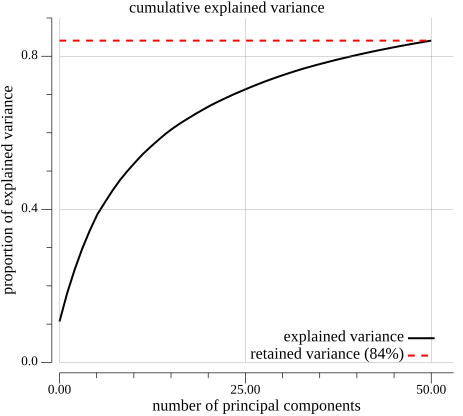
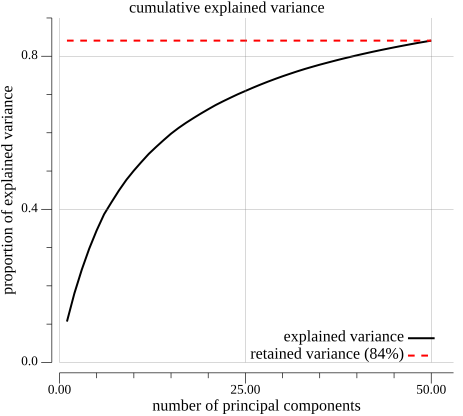
refactor: update pca orientation to samples x features

Changed region(s): [[0.121, 0.1875, 0.6048, 0.7812], [0.121, 0.0938, 0.9374, 0.1562], [0.6048, 0.1562, 0.6955, 0.1875]]

diff --git a/ngo/pca.go b/ngo/pca.go
@@ -32,37 +32,40 @@ func NewPCA(nComponents int) PCA {
 
 // performs a principal components analysis on the matrix of the input data
 // which is represented as an rows X cols matrix a where each
-// row is a variable and each column is an observation.
-// matrix shape (nFeatures, nSamples)
+// row is an observation and each column is a variable.
+// matrix shape (nSamples, nFeatures)
 func (p *pca) Fit(m mat.Matrix) {
 	data := mat.DenseCopyOf(m)
 	rows, cols := data.Dims()
 
-	// center the data by subtracting the mean
-	p.mean = make([]float64, rows)
-	for i := 0; i < rows; i++ {
-		mean := stat.Mean(mat.Row(nil, i, data), nil)
-		p.mean[i] = mean
-		for j := 0; j < cols; j++ {
+	// center the data by subtracting the mean of each feature
+	p.mean = make([]float64, cols)
+	for j := 0; j < cols; j++ {
+		mean := stat.Mean(mat.Col(nil, j, data), nil)
+		p.mean[j] = mean
+		for i := 0; i < rows; i++ {
 			data.Set(i, j, data.At(i, j)-mean)
 		}
 	}
 
 	// calculate the SVD decomposition
 	svd := &mat.SVD{}
-	if ok := svd.Factorize(data.T(), mat.SVDFull); !ok {
+	if ok := svd.Factorize(data, mat.SVDFull); !ok {
 		log.Fatal("error in SVD decomposition")
 	}
 
 	// get the eigenvectors (principal components)
 	var dst mat.Dense
 	svd.VTo(&dst)
-	p.components = mat.DenseCopyOf(dst.Slice(0, rows, 0, p.nComponents))
+
+	// v contains the right singular vectors as columns.
+	// store the principal components as rows.
+	p.components = mat.DenseCopyOf(dst.Slice(0, cols, 0, p.nComponents).T())
 
 	// calculate variance ratio
 	singularValues := svd.Values(nil)
 	floats.MulTo(singularValues, singularValues, singularValues)
-	floats.ScaleTo(singularValues, 1.0/float64(cols-1), singularValues)
+	floats.ScaleTo(singularValues, 1.0/float64(rows-1), singularValues)
 
 	totalVariance := floats.Sum(singularValues)
 	p.varianceRatio = make([]float64, len(singularValues[:p.nComponents]))
@@ -73,18 +76,19 @@ func (p *pca) Fit(m mat.Matrix) {
 
 // projects the data into principal component space
 // the returned matrix will be of reduced dimensionality
+// the returned matrix has shape (nSamples, nComponents)
 func (p *pca) Transform(m mat.Matrix) *mat.Dense {
 	data := mat.DenseCopyOf(m)
 	rows, cols := data.Dims()
 
-	// center the data by subtracting the mean
-	for i := 0; i < rows; i++ {
-		for j := 0; j < cols; j++ {
-			data.Set(i, j, data.At(i, j)-p.mean[i])
+	// center the data by subtracting the feature means
+	for j := 0; j < cols; j++ {
+		for i := 0; i < rows; i++ {
+			data.Set(i, j, data.At(i, j)-p.mean[j])
 		}
 	}
 
-	return MatMul(p.components.T(), data)
+	return MatMul(data, p.components.T())
 }
 
 // FitTransform is exactly equivalent to calling Fit()
@@ -95,12 +99,14 @@ func (p *pca) FitTransform(m mat.Matrix) *mat.Dense {
 }
 
 // transforms data back to the original space
+// the returned matrix has shape (nSamples, nFeatures)
 func (p *pca) InverseTransform(m mat.Matrix) *mat.Dense {
-	rows, _ := p.components.Dims()
+	rows, _ := m.Dims()
+	_, cols := p.components.Dims()
 
-	reconstructed := MatMul(p.components, mat.DenseCopyOf(m))
+	reconstructed := MatMul(mat.DenseCopyOf(m), p.components)
 	for i := 0; i < rows; i++ {
-		for j := 0; j < reconstructed.RawMatrix().Cols; j++ {
+		for j := 0; j < cols; j++ {
 			reconstructed.Set(i, j, reconstructed.At(i, j)+p.mean[i])
 		}
 	}

diff --git a/examples/pca/pca.go b/examples/pca/pca.go
@@ -17,23 +17,26 @@ func main() {
 	applyNormalization := func(_, _ int, v float64) float64 { return v / 255.0 }
 	xTrain = ngo.Apply(applyNormalization, xTrain)
 
-	labels := make([]float64, yTrain.RawMatrix().Cols)
-	for j := range yTrain.RawMatrix().Cols {
-		labels[j] = float64(floats.MaxIdx(mat.Col(nil, j, yTrain)))
+	labels := make([]float64, yTrain.RawMatrix().Rows)
+	for i := range labels {
+		labels[i] = float64(floats.MaxIdx(yTrain.RawRowView(i)))
 	}
 
 	nComponents := 50
 	pca := ngo.NewPCA(nComponents)
 	xTrainReduced := pca.FitTransform(xTrain)
+	variance := pca.GetExplainedVariance()
 
-	x := ngo.Linspace(0, float64(nComponents), len(pca.GetExplainedVariance()))
-	y := make([]float64, len(pca.GetExplainedVariance()))
-	floats.CumSum(y, pca.GetExplainedVariance())
+	x := ngo.Linspace(1, float64(nComponents), len(variance))
+	y := make([]float64, len(variance))
+	floats.CumSum(y, variance)
 
 	plt := plotter.NewPlot()
 	plt.FigSize(12, 11)
 
-	plt.Scatter(xTrainReduced.RawRowView(0), xTrainReduced.RawRowView(1), labels,
+	pc1 := mat.Col(nil, 0, xTrainReduced)
+	pc2 := mat.Col(nil, 1, xTrainReduced)
+	plt.Scatter(pc1, pc2, labels,
 		plotter.WithScatterColorMap(plotter.Tab10),
 		plotter.WithScatterColorbar(plotter.Vertical),
 	)
@@ -47,7 +50,7 @@ func main() {
 
 	plt = plotter.NewPlot()
 	plt.FigSize(12, 11)
-	
+
 	plt.Plot(x, y)
 	plt.Plot(x, ngo.Linspace(floats.Max(y), floats.Max(y), len(x)),
 		plotter.WithLineColor(plotter.Red),

diff --git a/examples/pca/utils.go b/examples/pca/utils.go
@@ -21,9 +21,9 @@ func LoadDataFromFile(path string) *mat.Dense {
 		log.Println("error reading features from file:", err.Error())
 	}
 
-	m := mat.NewDense(len(lines[0]), len(lines), nil)
-	for j, line := range lines {
-		for i, col := range line {
+	m := mat.NewDense(len(lines), len(lines[0]), nil)
+	for i, line := range lines {
+		for j, col := range line {
 			value, _ := strconv.ParseFloat(col, 64)
 			m.Set(i, j, value)
 		}
